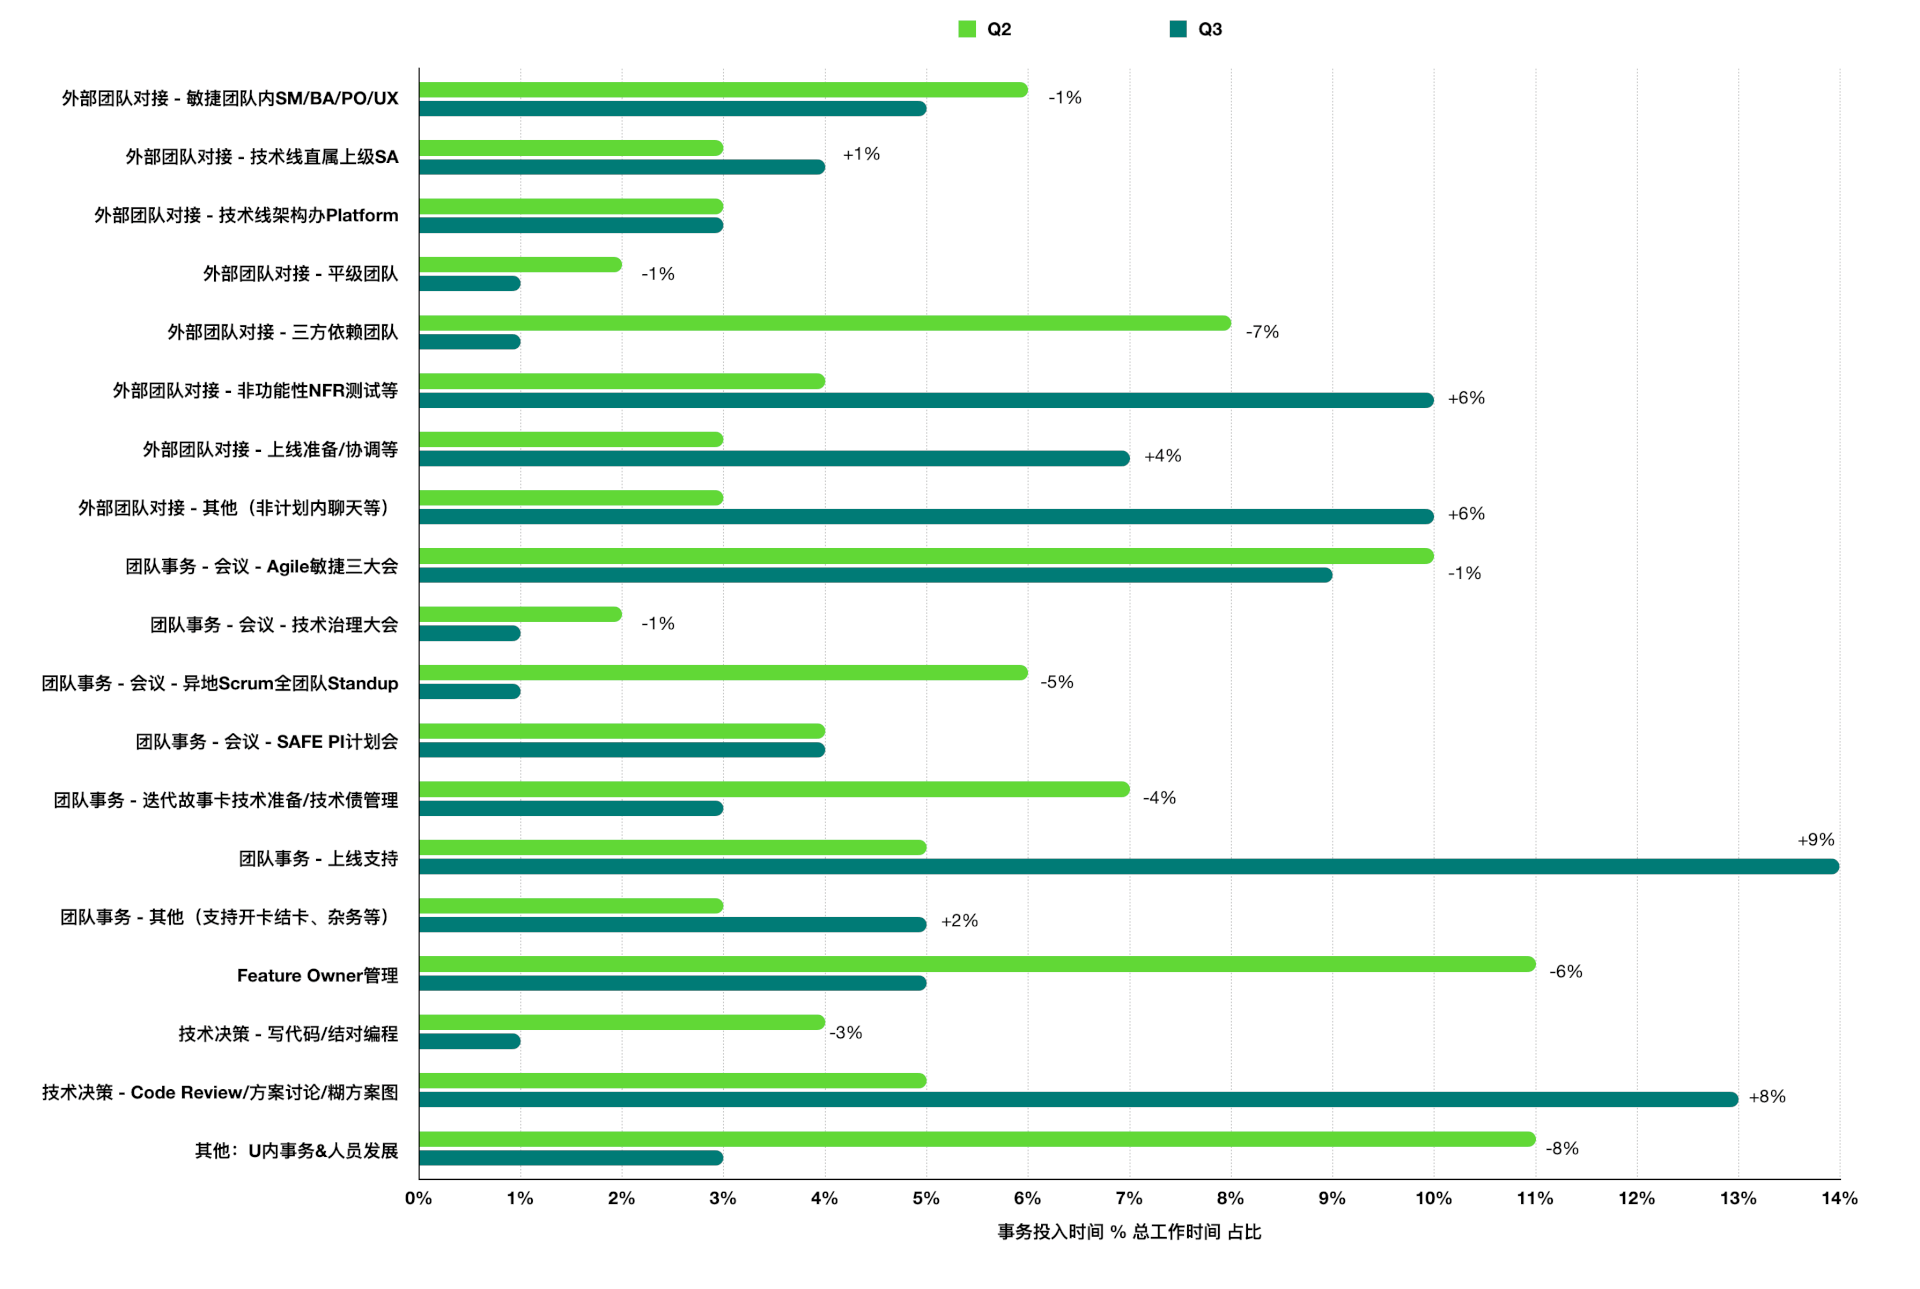
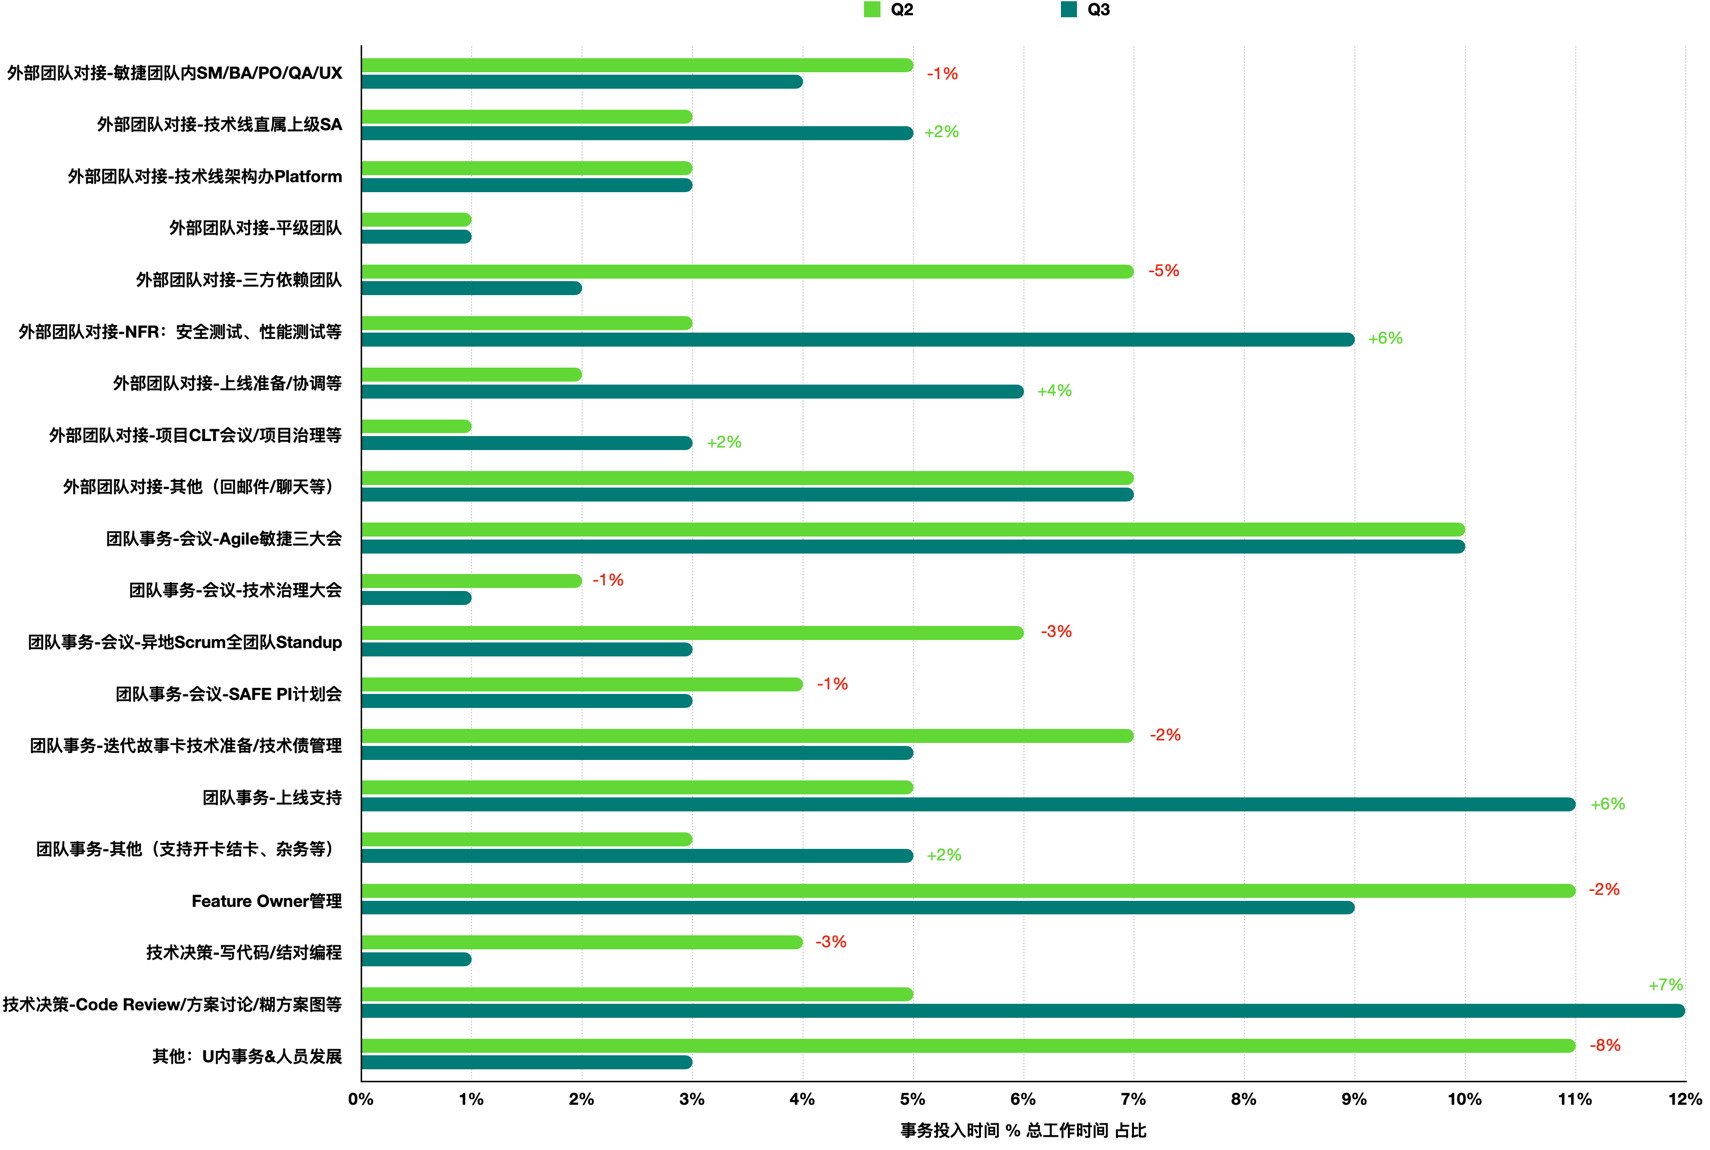
🌞post: update charts & pies to reflect latest data

diff --git a/_posts/2023-08-05-my-tech-lead-journey-iv.md b/_posts/2023-08-05-my-tech-lead-journey-iv.md
@@ -51,8 +51,19 @@ category: career, tech-lead
 * **对Feature Owner的期望是跟着TL的工作方式走的，进一步讲即是由项目环境决定的**。在笔者当前项目上，owner需要做的事情可以从上面完整地看出来：上至需求管理与技术方案输出，对内要关注团队内部的开结卡流程，对外要与PO与三方团队对接，同时还要与TL定期同步信息等。
 * **对于TL来说，你如果没法亲自高效完成开发者们（甚至团队其他角色）都能完成的事情，那么你就做不好实质性的领导**
 
-那么，遵照这个时间管理的方向，我在Q3的进步如何呢？
+那么，遵照这个时间管理的方向，我在Q3的进步如何呢？我把Q3和Q2的用时情况进行了对比。感兴趣的读者，可以展开后面的工时细节查看原始的数据。
 
+<p align="center">
+  <img
+    src="https://cdn.jsdelivr.net/gh/EthanLin-TWer/blog@gh-pages/_images/2023-08-05-working-hours-and-focus-refinement.png"
+    alt="Working hours comparison / insights between Q2 and Q3"
+  />
+</p>
+
+从这个对比图中，我们不仅可以看出改进的效果，同时还能看到各个类目用时的变化过程，并再次从中得出有益的洞见：
+
+* 技术相关的事情从原来的10%→到15%了。确实是在改进中的，但是改进的速度并没有想象中那么多、那么快。
+* WIP 你会发现你想争取20%的时间移交到技术侧，那么必然是这里出4%，那里出2%，翻译一下，就是每个月从一个类目时间里提高2-4个小时的时间效率的事情，所以，不要看不起30分钟粒度的效率提升。看似微不足道的数字里头（2%这样的改进），其实包含了许多实打实的改进。这个视角看数据更有敬畏感，很有意思。
 
 <detail>
   <summary>点击展开Q3工时细节</summary>
@@ -70,46 +81,34 @@ pie showData title TL working hours - High Level
 ```mermaid
 %%{init: {"pie": {"textPosition": 0.5, "useWidth": 1260}, "themeVariables": {"pieOuterStrokeWidth": "3px"}} }%%
 pie showData title TL working hours - Breaking Down
-  "外部团队对接 - 敏捷团队内SM/BA/PO/QA": 8.25
-  "外部团队对接 - 技术线直属上级SA": 9.5
-  "外部团队对接 - 技术线架构办Platform": 5.5
-  "外部团队对接 - 平级团队": 2.25
-  "外部团队对接 - 三方依赖团队": 3.5
-  "外部团队对接 - NFR：安全测试、性能测试等": 17.25
-  "外部团队对接 - 上线准备/协调等": 12
-%%   "外部团队对接 - 项目CLT会议/项目治理等": 5.25
-  "外部团队对接 - 其他（回邮件/CLT/聊天等）": 19
-        
-  "团队事务 - 会议 - Agile敏捷三大会": 19.5
-  "团队事务 - 会议 - 技术治理大会": 1.5
-  "团队事务 - 会议 - 异地Scrum全团队Standup": 6
-  "团队事务 - 会议 - SAFE PI计划会": 5.5
-  "团队事务 - 迭代故事卡技术准备/技术债管理": 9.25
-  "团队事务 - 上线支持": 21.5
-  "团队事务 - 其他（支持开卡结卡、Bugbash等）": 11
+  "外部团队对接-敏捷团队内SM/BA/PO/QA": 8.25
+  "外部团队对接-技术线直属上级SA": 9.5
+  "外部团队对接-技术线架构办Platform": 5.5
+  "外部团队对接-平级团队": 2.25
+  "外部团队对接-三方依赖团队": 3.5
+  "外部团队对接-NFR：安全测试、性能测试等": 17.25
+  "外部团队对接-上线准备/协调等": 12
+  "外部团队对接-项目CLT会议/项目治理等": 5.25
+  "外部团队对接-其他（回邮件/聊天等）": 13.75
+  
+  "团队事务-会议-Agile敏捷三大会": 19.5
+  "团队事务-会议-技术治理大会": 1.5
+  "团队事务-会议-异地Scrum全团队Standup": 6
+  "团队事务-会议-SAFE PI计划会": 5.5
+  "团队事务-迭代故事卡技术准备/技术债管理": 9.25
+  "团队事务-上线支持": 21.5
+  "团队事务-其他（支持开卡结卡、Bugbash等）": 11
 
   "Feature Owner管理": 18
 
-  "技术决策 - 写代码/结对编程": 3
-  "技术决策 - Code Review/方案讨论/糊方案图": 24
+  "技术决策-写代码/结对编程": 3
+  "技术决策-Code Review/方案讨论/糊方案图": 24
 
   "其他：U内事务/人员发展": 6.25
 ```
 </detail>
 
-
-> WIP 有趣的事：
->
-> 当你打开这些数据的时候，你就会发现你想争取20%的时间移交到技术侧，那么必然是这里出4%，那里出2%，翻译一下，就是每个月从一个类目时间里提高2-4个小时的时间效率的事情，所以，不要看不起30分钟粒度的效率提升。时间是按2%~4%这样计算的。看似微不足道的数字里头，其实包含了许多实打实的改进。很有意思。
-
-<p align="center" >
-  <img
-    src="https://cdn.jsdelivr.net/gh/EthanLin-TWer/blog@gh-pages/_images/2023-08-05-working-hours-and-focus-refinement.png"
-    alt="Working hours comparison / insights between Q2 and Q3"
-  />
-</p>
-
-> TODO: 把CLT/项目治理这块单独拎出来profile。需要更新part 1的图表。
+> TODO：Q3时间最终定下来之后，本篇的图也需要更新一下
 
 ## 其他疑问
 
